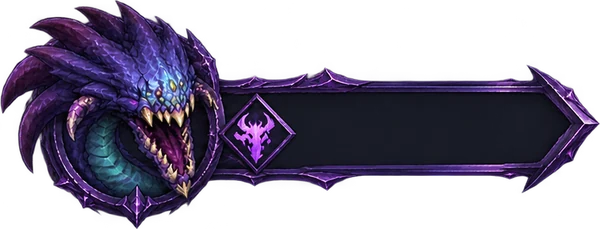
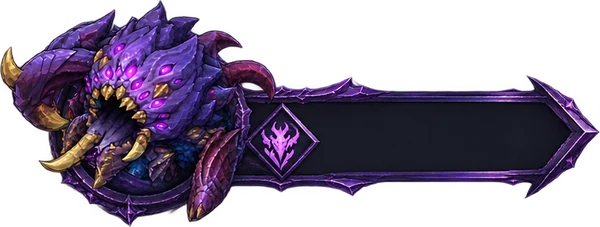
Épicos: imagens do Arauto e do Barão trocadas; contador só aparece a 3 min do nascimento e mostra VIVO
Claude-Session: https://claude.ai/code/session_01PbTN4Ma5asLhsL9rEvekKU

diff --git a/site/jogos/tecnico/partida/js/partida-ui.js b/site/jogos/tecnico/partida/js/partida-ui.js
@@ -216,6 +216,9 @@ function atualizarPlacar(forcar = false) {
   const arautoFora = O.arauto.aposentado || O.arauto.mortes > 0;
   lista.push(O.dragao.almaAlcancada ? ['anciao', O.dragao] : ['dragao', O.dragao]);
   lista.push(arautoFora ? ['barao', O.barao] : ['arauto', O.arauto]);
+  const segs = (o) => Math.max(0, Math.ceil(o.proximo - P.t));
+  const visiveis = lista.filter(([, o]) => viva(o) || segs(o) <= 180); // só aparece quando faltam 3 min para nascer (ou enquanto vivo)
+  lista.length = 0; lista.push(...visiveis);
   const chave = lista.map((x) => x[0]).join();
   const caixa = document.getElementById('obj');
   if (caixa.dataset.k !== chave) { caixa.dataset.k = chave; caixa.innerHTML = lista.map(([id]) => `<div class="ep-b ep-${id}" data-ep="${id}"><img src="img/epicos/${id}.webp" alt="${id}" /><span class="tx"></span></div>`).join(''); }
@@ -223,7 +226,7 @@ function atualizarPlacar(forcar = false) {
     const el = caixa.querySelector(`[data-ep="${id}"]`); if (!el) continue;
     const v = viva(o); const seg = Math.max(0, Math.ceil(o.proximo - P.t));
     el.classList.toggle('on', !!v);
-    el.querySelector('.tx').textContent = v ? 'EM JOGO' : `${Math.floor(seg / 60)}:${String(seg % 60).padStart(2, '0')}`;
+    el.querySelector('.tx').textContent = v ? 'VIVO' : `${Math.floor(seg / 60)}:${String(seg % 60).padStart(2, '0')}`;
   }
   // foco
   const f = E.selecionado ? P.mapaUnidades.get(E.selecionado) : null;

diff --git a/site/jogos/tecnico/partida/css/partida.css b/site/jogos/tecnico/partida/css/partida.css
@@ -241,7 +241,7 @@
 .ep-b .tx { position: absolute; left: var(--l); top: var(--t); width: var(--bw); height: var(--bh); display: grid; place-items: center; font-family: 'Bebas Neue', sans-serif; font-size: 0.12em; letter-spacing: 0.08em; color: var(--c); text-shadow: 0 0 8px var(--c2), 0 1px 2px #000; font-variant-numeric: tabular-nums; }
 .ep-b.on .tx { font-size: 0.085em; animation: ep-vivo 1.1s ease-in-out infinite; }
 @keyframes ep-vivo { 50% { text-shadow: 0 0 14px var(--c), 0 0 22px var(--c2); } }
-.ep-barao { --l: 58.5%; --t: 41.6%; --bw: 31%; --bh: 37.7%; --c: #f0d2ff; --c2: #a14dff; }
-.ep-arauto { --l: 59%; --t: 36.8%; --bw: 31%; --bh: 39%; --c: #f0d2ff; --c2: #a14dff; }
+.ep-barao { --l: 59%; --t: 36.8%; --bw: 31%; --bh: 39%; --c: #f0d2ff; --c2: #a14dff; }
+.ep-arauto { --l: 58.5%; --t: 41.6%; --bw: 31%; --bh: 37.7%; --c: #f0d2ff; --c2: #a14dff; }
 .ep-dragao { --l: 59%; --t: 47.4%; --bw: 31%; --bh: 35.4%; --c: #d6f1ff; --c2: #4dc4ff; }
 .ep-anciao { --l: 59%; --t: 44.8%; --bw: 30%; --bh: 37%; --c: #d6f1ff; --c2: #4dc4ff; }

diff --git a/site/jogos/tecnico/partida/index.html b/site/jogos/tecnico/partida/index.html
@@ -11,12 +11,12 @@
 <link rel="stylesheet" href="https://fonts.googleapis.com/css2?family=Bebas+Neue&family=Inter:wght@400;500;600;700;800&display=swap" />
 <link rel="icon" type="image/png" sizes="32x32" href="../../../shared/assets/marca/favicon-32.png?v=2" />
 <link rel="stylesheet" href="../../../shared/account.css?v=21" />
-<link rel="stylesheet" href="css/partida.css?v=22" />
+<link rel="stylesheet" href="css/partida.css?v=23" />
 </head>
 <body>
 <div id="site-bar"></div>
 <main id="app" class="pt"><p class="pt-msg">Carregando a partida…</p></main>
 <noscript>Este jogo precisa de JavaScript.</noscript>
-<script type="module" src="js/partida-ui.js?v=19"></script>
+<script type="module" src="js/partida-ui.js?v=20"></script>
 </body>
 </html>
